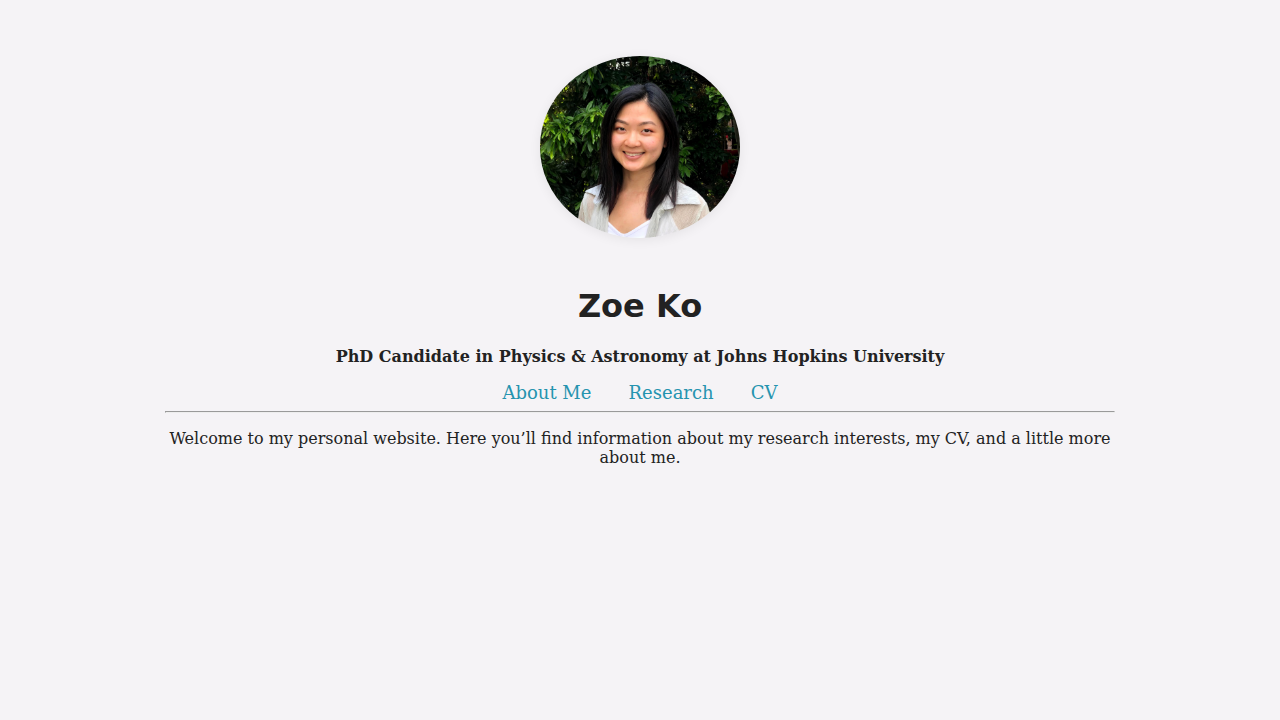
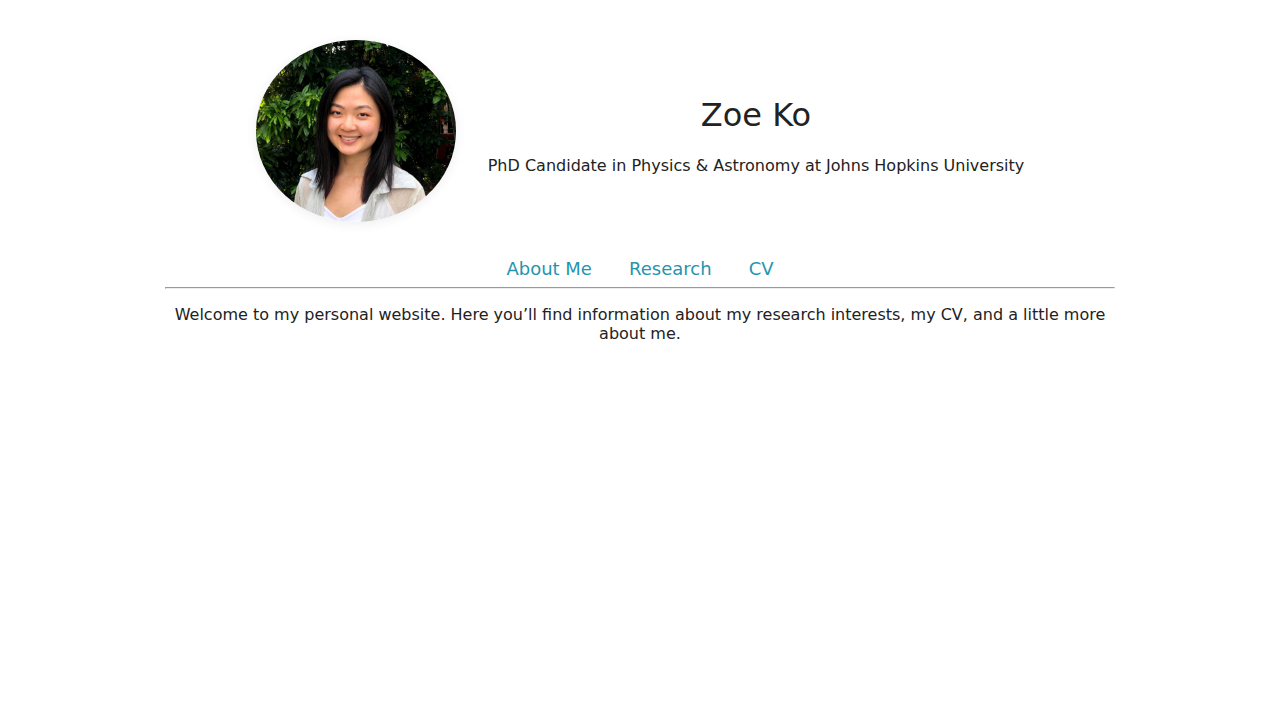
feat: Update styling and layout
This commit introduces the following changes:
- The homepage layout is updated to display the photo to the left of the name and title.
- The CV link now points to a placeholder PDF file.
- The background color of the website is changed to white.
- The font is updated to a clean, sans-serif style.

Changed region(s): [[0.125, 0.3667, 0.875, 0.6417], [0.1875, 0.0306, 0.8125, 0.3361]]

diff --git a/_site/index.html b/_site/index.html
@@ -9,20 +9,20 @@
 <body>
   <div class="wrapper">
     <main>
-      <p align="center">
-  <img src="zoe.jpg" alt="Zoe Ko" width="200" />
-</p>
-
-<h1 align="center">Zoe Ko</h1>
-
-<p align="center">
-  <strong>PhD Candidate in Physics &amp; Astronomy at Johns Hopkins University</strong>
-</p>
+      <div style="display: flex; align-items: center; justify-content: center; padding-bottom: 2rem;">
+  <div style="flex-shrink: 0; margin-right: 2rem;">
+    <img src="zoe.jpg" alt="Zoe Ko" width="200" style="border-radius: 50%;" />
+  </div>
+  <div>
+    <h1>Zoe Ko</h1>
+    <p><strong>PhD Candidate in Physics &amp; Astronomy at Johns Hopkins University</strong></p>
+  </div>
+</div>
 
 <div align="center" class="navbar">
   <a href="index.html">About Me</a>
   <a href="research.html">Research</a>
-  <a href="cv.html">CV</a>
+  <a href="cv.pdf">CV</a>
 </div>
 
 <hr />

diff --git a/_site/assets/style.css b/_site/assets/style.css
@@ -21,20 +21,20 @@ main, .wrapper {
 img[alt="Zoe Ko"] {
   border-radius: 50%;
   box-shadow: 0 2px 12px rgba(0,0,0,0.07);
-  margin-bottom: 24px;
 }
 
 /* Optional: Set font and tweak type appearance */
 body {
-  font-family: "Georgia", "Times New Roman", serif;
-  background: #f5f3f6;
+  font-family: 'Avenir', 'Raleway', -apple-system, BlinkMacSystemFont, "Segoe UI", "Roboto", "Helvetica Neue", Arial, sans-serif;
+  background: #ffffff;
   color: #222;
+  font-weight: 300;
 }
 
 /* Sharper, larger headings */
 h1, h2 {
-  font-family: "Helvetica Neue", Helvetica, Arial, sans-serif;
-  font-weight: 700;
+  font-family: 'Avenir', 'Raleway', -apple-system, BlinkMacSystemFont, "Segoe UI", "Roboto", "Helvetica Neue", Arial, sans-serif;
+  font-weight: 400;
 }
 
 a {

diff --git a/assets/style.css b/assets/style.css
@@ -21,20 +21,20 @@ main, .wrapper {
 img[alt="Zoe Ko"] {
   border-radius: 50%;
   box-shadow: 0 2px 12px rgba(0,0,0,0.07);
-  margin-bottom: 24px;
 }
 
 /* Optional: Set font and tweak type appearance */
 body {
-  font-family: "Georgia", "Times New Roman", serif;
-  background: #f5f3f6;
+  font-family: 'Avenir', 'Raleway', -apple-system, BlinkMacSystemFont, "Segoe UI", "Roboto", "Helvetica Neue", Arial, sans-serif;
+  background: #ffffff;
   color: #222;
+  font-weight: 300;
 }
 
 /* Sharper, larger headings */
 h1, h2 {
-  font-family: "Helvetica Neue", Helvetica, Arial, sans-serif;
-  font-weight: 700;
+  font-family: 'Avenir', 'Raleway', -apple-system, BlinkMacSystemFont, "Segoe UI", "Roboto", "Helvetica Neue", Arial, sans-serif;
+  font-weight: 400;
 }
 
 a {

diff --git a/index.md b/index.md
@@ -3,20 +3,20 @@ layout: default
 title: About Me
 ---
 
-<p align="center">
-  <img src="zoe.jpg" alt="Zoe Ko" width="200">
-</p>
-
-<h1 align="center">Zoe Ko</h1>
-
-<p align="center">
-  <strong>PhD Candidate in Physics & Astronomy at Johns Hopkins University</strong>
-</p>
+<div style="display: flex; align-items: center; justify-content: center; padding-bottom: 2rem;">
+  <div style="flex-shrink: 0; margin-right: 2rem;">
+    <img src="zoe.jpg" alt="Zoe Ko" width="200" style="border-radius: 50%;">
+  </div>
+  <div>
+    <h1>Zoe Ko</h1>
+    <p><strong>PhD Candidate in Physics & Astronomy at Johns Hopkins University</strong></p>
+  </div>
+</div>
 
 <div align="center" class="navbar">
   <a href="index.html">About Me</a>
   <a href="research.html">Research</a>
-  <a href="cv.html">CV</a>
+  <a href="cv.pdf">CV</a>
 </div>
 
 ---
